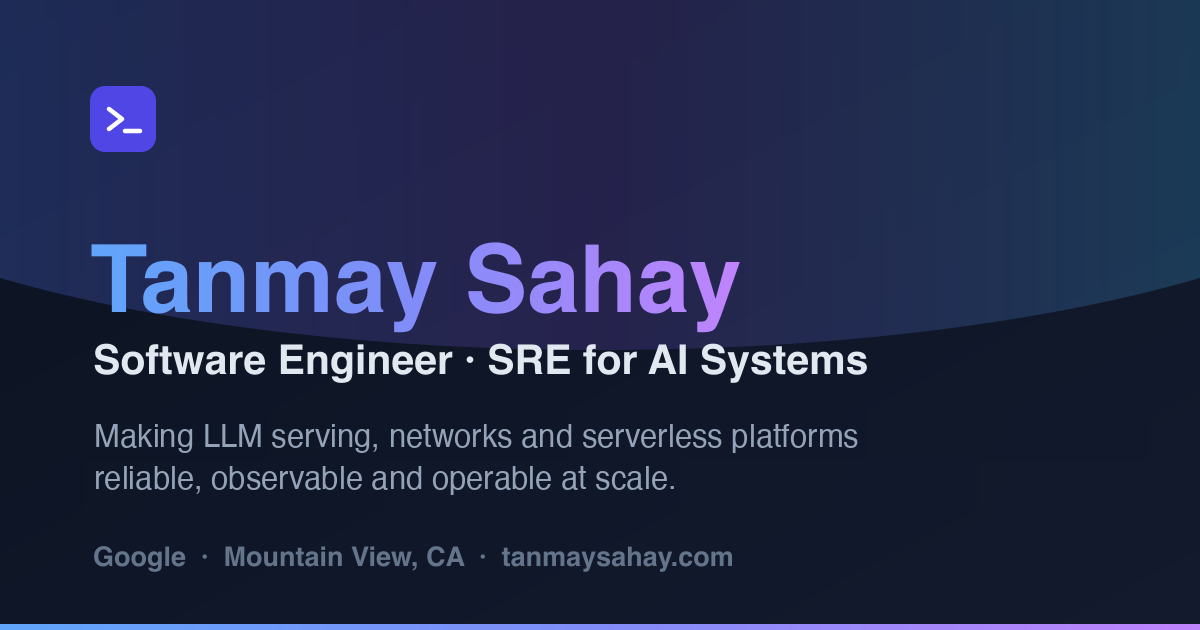
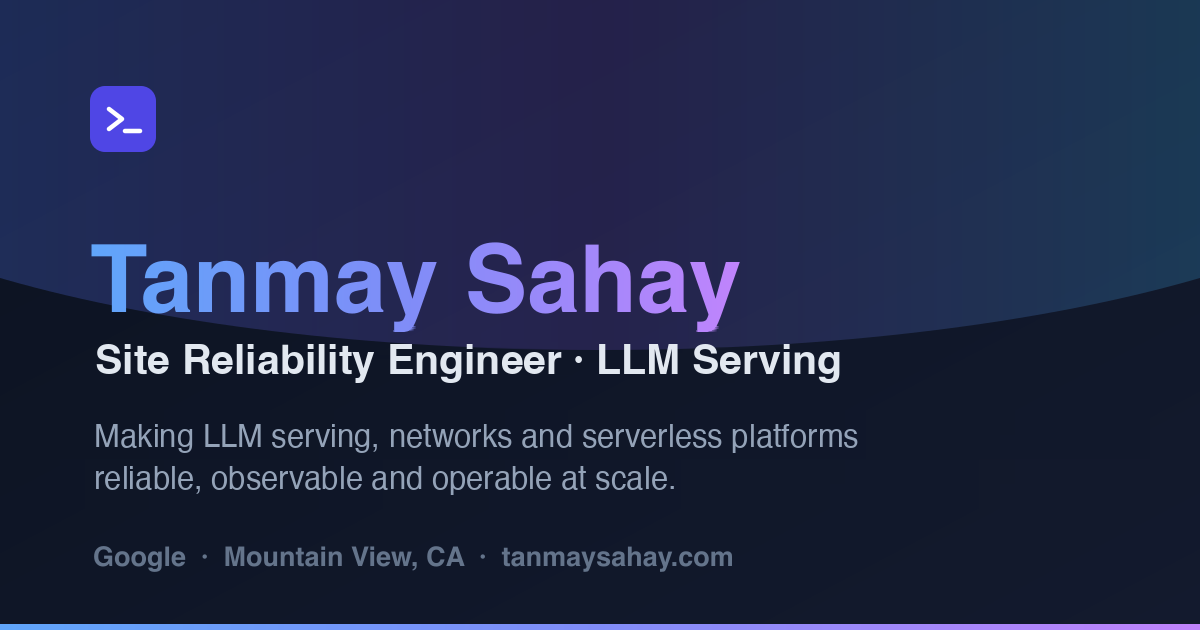
content: title is "Site Reliability Engineer, LLM Serving"
Update <title>, og:title, og:image:alt, twitter:title and the
og-image title line (operator picked option 1). Only the grey title
glyphs were repainted; the name and background are unchanged.

Claude-Session: https://claude.ai/code/session_01GRvi3Zx7AnBhsrVrAUUWgQ

Changed region(s): [[0.0617, 0.5429, 0.74, 0.6032]]

diff --git a/index.html b/index.html
@@ -5,7 +5,7 @@
     <link rel="icon" type="image/svg+xml" href="/favicon.svg" />
     <meta name="viewport" content="width=device-width, initial-scale=1.0" />
 
-    <title>Tanmay Sahay — Software Engineer &amp; SRE for AI Systems</title>
+    <title>Tanmay Sahay — Site Reliability Engineer, LLM Serving</title>
     <meta
       name="description"
       content="Tanmay Sahay is a Software Engineer and Site Reliability Engineer at Google, making LLM serving for Gemini and Vertex AI (Google DeepMind), Google's network infrastructure and Google Cloud's serverless platform reliable, observable, and operable at scale. 8+ years in cloud reliability, ex-Booking.com."
@@ -18,7 +18,7 @@
     <!-- Open Graph -->
     <meta property="og:type" content="website" />
     <meta property="og:site_name" content="Tanmay Sahay" />
-    <meta property="og:title" content="Tanmay Sahay — Software Engineer &amp; SRE for AI Systems" />
+    <meta property="og:title" content="Tanmay Sahay — Site Reliability Engineer, LLM Serving" />
     <meta
       property="og:description"
       content="Making LLM serving, networks and serverless platforms reliable, observable, and operable at scale. 8+ years in cloud reliability at Google, ex-Booking.com."
@@ -27,11 +27,11 @@
     <meta property="og:image" content="https://tanmaysahay.com/og-image.png" />
     <meta property="og:image:width" content="1200" />
     <meta property="og:image:height" content="630" />
-    <meta property="og:image:alt" content="Tanmay Sahay — Software Engineer & SRE for AI Systems" />
+    <meta property="og:image:alt" content="Tanmay Sahay — Site Reliability Engineer, LLM Serving" />
 
     <!-- Twitter -->
     <meta name="twitter:card" content="summary_large_image" />
-    <meta name="twitter:title" content="Tanmay Sahay — Software Engineer & SRE for AI Systems" />
+    <meta name="twitter:title" content="Tanmay Sahay — Site Reliability Engineer, LLM Serving" />
     <meta
       name="twitter:description"
       content="Making LLM serving, networks and serverless platforms reliable, observable, and operable at scale. 8+ years in cloud reliability at Google."
